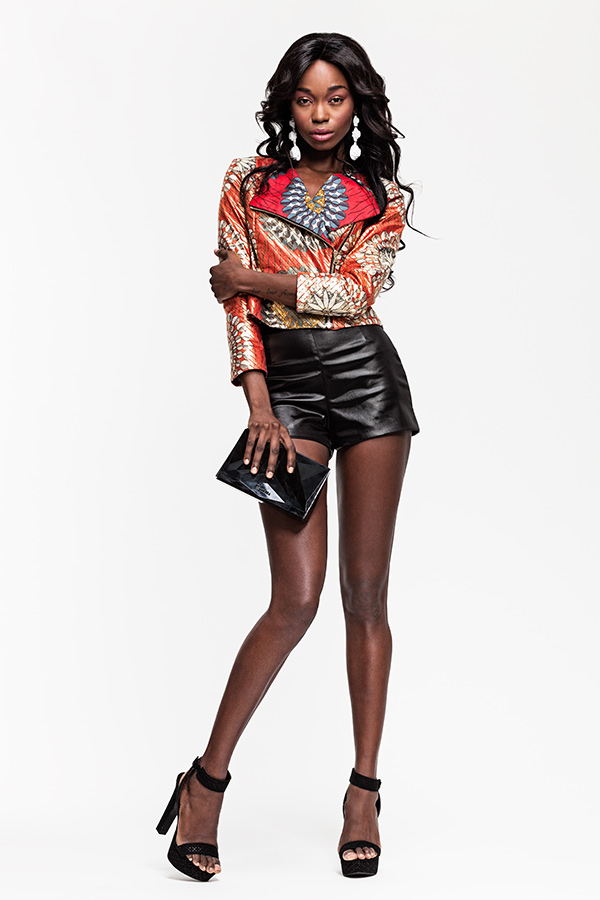
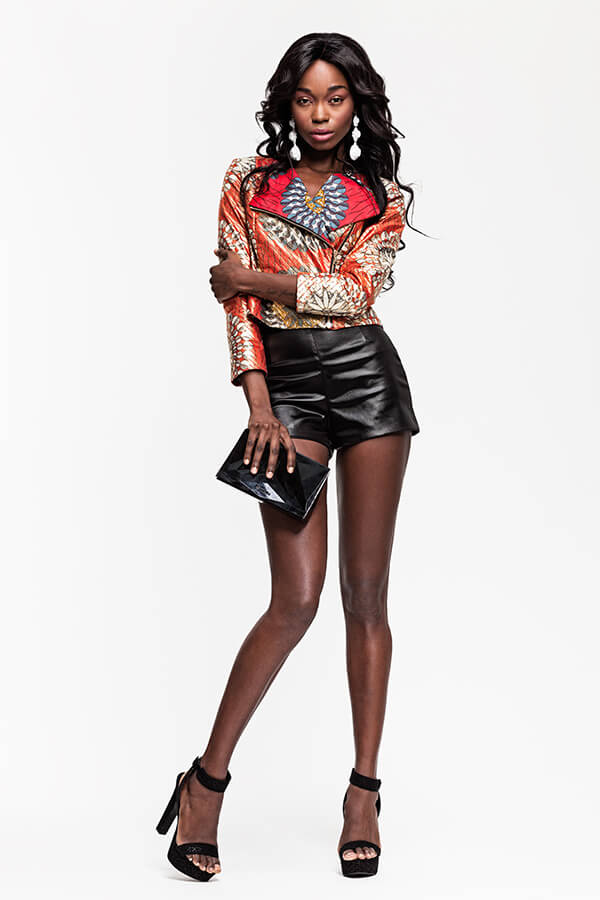
added better reset and smushed images

Changed region(s): [[0.36, 0.1556, 0.69, 0.4356], [0.42, 0.5289, 0.45, 0.56]]

diff --git a/_sass/_reset.scss b/_sass/_reset.scss
@@ -1,53 +1,62 @@
-
-/***************/
-/* MEYER RESET */
-/***************/
-
-html, body, div, span, applet, object, iframe,
+/* RESET STYLES
+----------------------------------------------- */
+html { font-size: 100%; overflow-y: scroll; -webkit-text-size-adjust: 100%; -ms-text-size-adjust: 100%; }
+body { font-size: 100%;}
+ol, ul { list-style: none; }
+a{ text-decoration:none; }
+blockquote, q { quotes: none; }
+blockquote:before, blockquote:after,
+q:before, q:after { content: ''; content: none; }
+table { border-collapse: collapse; border-spacing: 0; }
+input, select { vertical-align: middle; }
+a img { border: 0; }
+a:focus { outline: 0; }
+a:hover, a:active { outline: none; }
+img { border: 0; -ms-interpolation-mode: bicubic; vertical-align: middle; }
+svg:not(:root) { overflow: hidden; }
+::-moz-selection { background: #000; color: #fff; text-shadow: none; }
+::selection { background: #000; color: #fff; text-shadow: none; }
+html, body, div, span, object, iframe,
 h1, h2, h3, h4, h5, h6, p, blockquote, pre,
-a, abbr, acronym, address, big, cite, code,
-del, dfn, em, img, ins, kbd, q, s, samp,
-small, strike, strong, sub, sup, tt, var,
-b, u, i, center,
-dl, dt, dd, ol, ul, li,
+abbr, address, cite, code, del, dfn, em, img, ins, kbd, q, samp,
+small, strong, sub, sup, var, b, i, dl, dt, dd, ol, ul, li,
 fieldset, form, label, legend,
 table, caption, tbody, tfoot, thead, tr, th, td,
-article, aside, canvas, details, embed,
-figure, figcaption, footer, header, hgroup,
-menu, nav, output, ruby, section, summary,
+article, aside, canvas, details, figcaption, figure,
+footer, header, hgroup, menu, nav, section, summary,
 time, mark, audio, video {
 	margin: 0;
 	padding: 0;
-	border: 0;
 	font-size: 100%;
-	font: inherit;
-	vertical-align: baseline;
+	font-weight: inherit;
+	font-style: normal;
+	vertical-align: none;
+	background: transparent;
+	border: 0;
+	outline: 0;
 }
-// HTML5 display-role reset for older browsers
-article, aside, details, figcaption, figure,
-footer, header, hgroup, menu, nav, section {
-	display: block;
-}
-body {
-	line-height: 1;
-}
-ol, ul {
-	list-style: none;
-}
-blockquote, q {
-	quotes: none;
-}
-blockquote:before, blockquote:after,
-q:before, q:after {
-	content: '';
-	content: none;
-}
-table {
-	border-collapse: collapse;
-	border-spacing: 0;
-}
-// Apply a natural box layout model to all elements
-// from: http://www.paulirish.com/2012/box-sizing-border-box-ftw/
-*, *:before, *:after {
-  -moz-box-sizing: border-box; -webkit-box-sizing: border-box; box-sizing: border-box;
-}
+/* =============================================================================
+   Forms
+   ========================================================================== */
+
+form { margin: 0; }
+fieldset { border: 0; margin: 0; padding: 0; }
+label { cursor: pointer; }
+legend { border: 0; *margin-left: -7px; padding: 0; }
+button, input, select, textarea { font-size: 100%; margin: 0; vertical-align: baseline; *vertical-align: middle; }
+button, input { line-height: normal; *overflow: visible; }
+table button, table input { *overflow: auto; }
+button, input[type="button"], input[type="reset"], input[type="submit"] { cursor: pointer; -webkit-appearance: button; }
+input[type="checkbox"], input[type="radio"] { box-sizing: border-box; }
+input[type="search"] { -webkit-appearance: textfield; -moz-box-sizing: content-box; -webkit-box-sizing: content-box; box-sizing: content-box; }
+input[type="search"]::-webkit-search-decoration { -webkit-appearance: none; }
+button::-moz-focus-inner, input::-moz-focus-inner { border: 0; padding: 0; }
+textarea { overflow: auto; vertical-align: top; resize: vertical; }
+input:valid, textarea:valid {  }
+input:invalid, textarea:invalid { background-color: #f0dddd; }
+
+
+/* HTML5 RESETS > BROWSERS + VELHOS
+---------------------------------------*/
+article, aside, figure, figure img, hgroup, footer, header, nav, section {display: block;}
+
